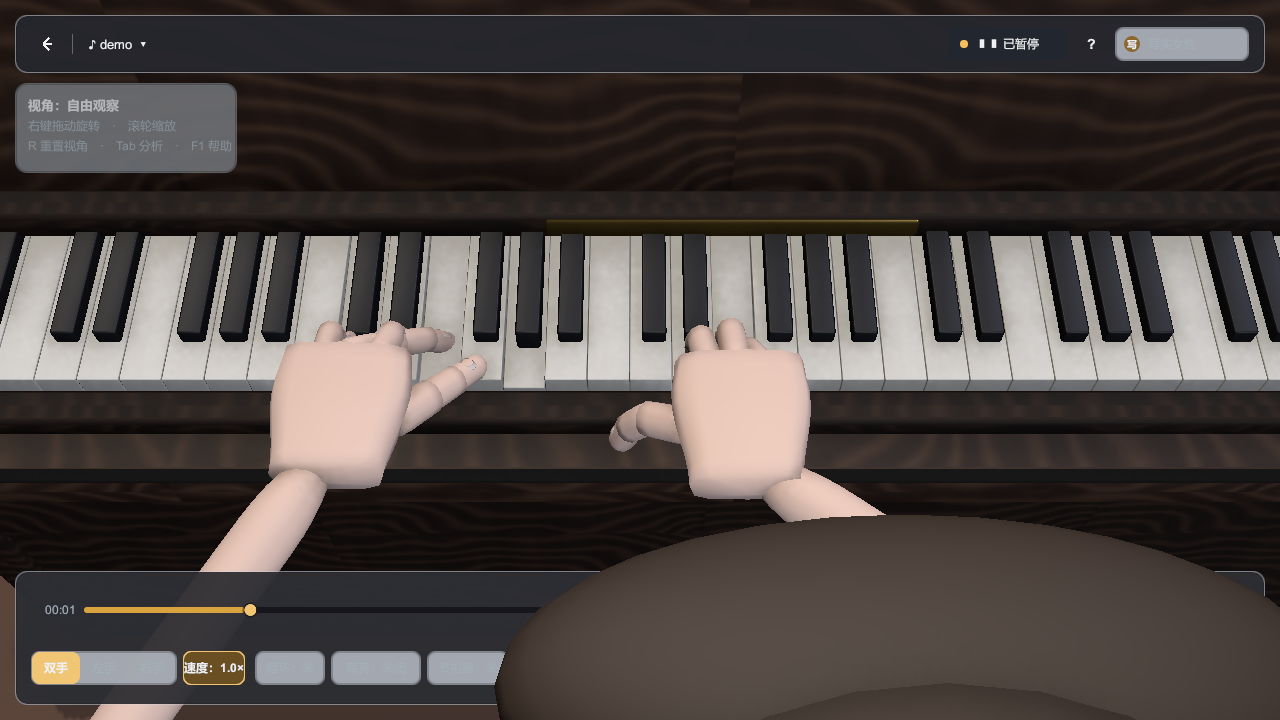
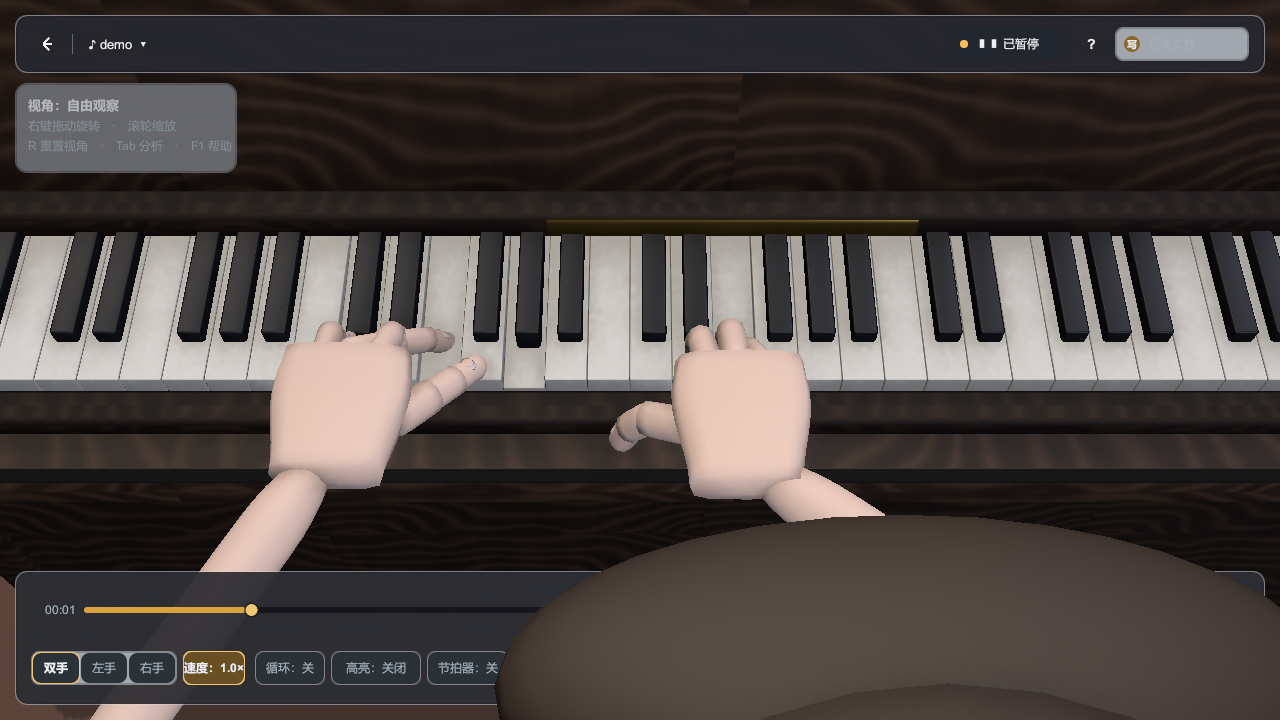
fix(ui): chip 与分段项改实心底色，不再是一排「空按钮」
关闭态原来是 Transparent 底 + 1px 描边，在深色场景里几乎看不见，
观感像一排灰方块；禁用态与未选中态也分不清。

- UITheme.ChipBackground：关闭态 Transparent -> Control
- UITheme.PaintSegment：未选中 Transparent -> Control
- UISegmentedControl.RefreshStyles：UIHoverFeedback 的 idle 色同步为 Control
- 重采 26 张视觉基线（V19/V21 可见底部控制条与角色库）

验证：EditMode 485/485、PlayMode 130 过 + 4 跳过 / 0 失败（昨晚两个计时类失败本轮自然通过）。

Changed region(s): [[0.1875, 0.8861, 0.4062, 0.9472], [0.0, 0.8861, 0.1562, 0.9472]]

diff --git a/Assets/Scripts/UI/UITheme.cs b/Assets/Scripts/UI/UITheme.cs
@@ -1128,9 +1128,16 @@ namespace PianoTeacher3D.UI
             btn.colors = colors;
         }
 
-        /// <summary>chip 底色：开启 <see cref="Selected"/>，关闭透明；禁用 <see cref="Disabled"/>。</summary>
+        /// <summary>
+        /// chip 底色：开启 <see cref="Selected"/>，关闭 <see cref="Control"/>，禁用 <see cref="Disabled"/>。
+        /// <para>
+        /// 关闭态曾经是<b>全透明</b>——在深色场景上几乎看不见，只剩一圈 1px 描边，
+        /// 实际观感是「一排灰方块的空白按钮」。改成实心底色后，关闭态与开启态
+        /// 靠「深灰底 / 金色底」区分，文字始终压在实色上，对比度稳定。
+        /// </para>
+        /// </summary>
         public static Color ChipBackground(bool active, bool enabled)
-            => !enabled ? Disabled : (active ? Selected : Transparent);
+            => !enabled ? Disabled : (active ? Selected : Control);
 
         /// <summary>
         /// 绘制 chip（带状态后缀的只读/可点小控件）：常态透明 + 1px <see cref="Divider"/> 边，
@@ -1158,7 +1165,7 @@ namespace PianoTeacher3D.UI
         }
 
         /// <summary>
-        /// 绘制分段项：未选中透明（悬停出 <see cref="ControlHover"/>），
+        /// 绘制分段项：未选中 <see cref="Control"/> 实心底（与 chip 一致，透明底在深色场景里只剩一圈细边、像空按钮），
         /// 选中 <see cref="Selected"/> 底 + 1px <see cref="BorderSelected"/> 边 + 粗体，
         /// 因此「当前值」同时靠底色、描边、字重三重表达，不只靠颜色。
         /// </summary>
@@ -1170,7 +1177,7 @@ namespace PianoTeacher3D.UI
             {
                 var sprite = GetRoundedSprite(radius);
                 if (sprite != null) { img.sprite = sprite; img.type = Image.Type.Sliced; }
-                img.color = !enabled ? Disabled : (selected ? Selected : Transparent);
+                img.color = !enabled ? Disabled : (selected ? Selected : Control);
                 SetOutline(img, selected, BorderSelected, 1f);
             }
             var label = GetLabel(btn);

diff --git a/Assets/Scripts/UI/UISegmentedControl.cs b/Assets/Scripts/UI/UISegmentedControl.cs
@@ -206,8 +206,10 @@ namespace PianoTeacher3D.UI
                     feedback.SetInteractable(enabled);
                     feedback.SetOutlineState(selected, UITheme.BorderSelected);
                     // 选中项悬停保持金色底（避免一悬停就失去「当前值」的视觉）
-                    feedback.SetColors(UITheme.Transparent,
-                        !enabled ? UITheme.Transparent : (selected ? UITheme.Selected : UITheme.ControlHover));
+                    // 未选中项给实心 Control 底（与 chip 一致）：透明底在深色场景里只剩一圈描边，
+                    // 观感上是「空白灰按钮」，分不清是禁用还是没选中。
+                    feedback.SetColors(UITheme.Control,
+                        !enabled ? UITheme.Disabled : (selected ? UITheme.Selected : UITheme.ControlHover));
                 }
             }
         }

diff --git a/Docs/screenshots/manifest.md b/Docs/screenshots/manifest.md
@@ -5,7 +5,7 @@
 > 对应文档：方案 **11.2 视觉回归**（10 个固定截图/场景用例）、**11.3/11.4 验收与自动化**、
 > **15 发布前检查清单**；审查 **3.2 视角可用性**、**6.1 画面基线组合 V01–V09**、**6.2 相机验收清单**。
 
-- 生成时间：2026-11-03 13:05:02
+- 生成时间：2026-11-03 13:41:09
 - 生成主机 Unity 版本：2022.3.22f1c1
 - 项目版本锁定值：2022.3.22f1c1（来源 ProjectSettings/ProjectVersion.txt）
 - 运行平台 / 图形设备：WindowsEditor / Direct3D11
@@ -25,30 +25,30 @@
 |---|---|---|---|---|---|---|---|---|---|---|
 | 01_full.png | 方案 11.2-2 | 写实女性（索引 0） | demo | 0.00 | 全景（Mode=Full, ModeLabel=全景）自由观察=False | 640×480（请求 1280×720） | 2022.3.22f1c1 | 2022.3.22f1c1 | 标准全景：键盘完整、低音端无遮挡、人物完整入画 | — |
 | 02_closeup.png | 方案 11.2-3 | 写实女性（索引 0） | demo | 0.00 | 手部特写（Mode=Closeup, ModeLabel=手部特写）自由观察=False | 640×480（请求 1280×720） | 2022.3.22f1c1 | 2022.3.22f1c1 | 手部特写（白键旋律）：掌心、指尖与相应琴键同时可见 | 高亮默认关闭，特写按活动手范围取景 |
-| 03_playing.png | 方案 11.2-2 | 写实女性（索引 0） | demo | 4.14 | 全景（Mode=Full, ModeLabel=全景）自由观察=False | 640×480（请求 1280×720） | 2022.3.22f1c1 | 2022.3.22f1c1 | 播放中全景：琴键动作与高亮同步、人物无穿模 | — |
-| 04_practice_left.png | 方案 11.2-6 | 写实女性（索引 0） | demo | 6.01 | 全景（Mode=Full, ModeLabel=全景）自由观察=False | 640×480（请求 1280×720） | 2022.3.22f1c1 | 2022.3.22f1c1 | 分手练习开启：相机聚焦活动手 | — |
+| 03_playing.png | 方案 11.2-2 | 写实女性（索引 0） | demo | 4.12 | 全景（Mode=Full, ModeLabel=全景）自由观察=False | 640×480（请求 1280×720） | 2022.3.22f1c1 | 2022.3.22f1c1 | 播放中全景：琴键动作与高亮同步、人物无穿模 | — |
+| 04_practice_left.png | 方案 11.2-6 | 写实女性（索引 0） | demo | 5.90 | 全景（Mode=Full, ModeLabel=全景）自由观察=False | 640×480（请求 1280×720） | 2022.3.22f1c1 | 2022.3.22f1c1 | 分手练习开启：相机聚焦活动手 | — |
 | 05_avatar_man.png | 方案 11.2-8 | 写实男性（索引 1） | demo | 7.50 | 全景（Mode=Full, ModeLabel=全景）自由观察=False | 640×480（请求 1280×720） | 2022.3.22f1c1 | 2022.3.22f1c1 | 不同人物切换后的同一机位：构图规律一致 | — |
 | 06_avatar_cartoon.png | 方案 11.2-8 | 卡通角色（索引 2） | demo | 7.50 | 全景（Mode=Full, ModeLabel=全景）自由观察=False | 640×480（请求 1280×720） | 2022.3.22f1c1 | 2022.3.22f1c1 | 不同人物切换后的同一机位：构图规律一致 | — |
-| V01_closeup_chord.png | 审查 6.1 V01 / 方案 11.2-4 | 写实女性（索引 0） | demo | 1.10 | 手部特写（Mode=Closeup, ModeLabel=手部特写）自由观察=False | 640×480（请求 1280×720） | 2022.3.22f1c1 | 2022.3.22f1c1 | 掌心、指尖、琴键可见；指法自然 | 曲内同时发声 4 音的中音区和弦（t=0.00s） |
-| V02_closeup_wide_leap.png | 审查 6.1 V02 / 3.2-1 | 写实女性（索引 0） | demo | 2.62 | 手部特写（Mode=Closeup, ModeLabel=手部特写）自由观察=False | 640×480（请求 1280×720） | 2022.3.22f1c1 | 2022.3.22f1c1 | 动态取景范围与阻尼：两手分开时画面不突然缩放 | 曲内 0.5s 窗口最大音域跨度 19 半音（pitch 48–67，t=1.50s）；内置示例曲音域有限，跨度不足属曲目内容限制 |
-| V03_full_arm_motion.png | 审查 6.1 V03 | 写实男性（索引 1） | demo | 6.60 | 全景（Mode=Full, ModeLabel=全景）自由观察=False | 640×480（请求 1280×720） | 2022.3.22f1c1 | 2022.3.22f1c1 | 坐姿、肩臂、完整键盘 | 曲内最大音程跳进 19 半音（t=3.50s），手臂运动在该片段最明显 |
-| V04_full_cartoon.png | 审查 6.1 V04 | 卡通角色（索引 2） | demo | 6.09 | 全景（Mode=Full, ModeLabel=全景）自由观察=False | 640×480（请求 1280×720） | 2022.3.22f1c1 | 2022.3.22f1c1 | 风格一致与取景适配 | 中等速度片段（曲目 40% 处） |
-| V05_left_hand_only.png | 审查 6.1 V05 / 3.2-3 | 写实女性（索引 0） | demo | 1.09 | 手部特写（Mode=Closeup, ModeLabel=手部特写）自由观察=False | 640×480（请求 1280×720） | 2022.3.22f1c1 | 2022.3.22f1c1 | 相机聚焦活动手 | 左手独立音型（t=0.00s） |
-| V06_right_hand_only.png | 审查 6.1 V06 / 3.2-4 | 写实女性（索引 0） | demo | 1.11 | 手部特写（Mode=Closeup, ModeLabel=手部特写）自由观察=False | 640×480（请求 1280×720） | 2022.3.22f1c1 | 2022.3.22f1c1 | 相机聚焦活动手 | 右手独立音型（t=0.00s） |
-| V07_free_orbit_paused.png | 审查 6.1 V07 | 写实女性（索引 0） | demo | 1.11 | 自由观察（Mode=Free, ModeLabel=自由观察）自由观察=True | 640×480（请求 1280×720） | 2022.3.22f1c1 | 2022.3.22f1c1 | 旋转/缩放、UI 鼠标操作边界 | 测试环境无法注入真实鼠标右键拖动：本图记录「进入自由观察 → 暂停」后的初始构图（进入时不跳变） |
-| V08_switch_settled.png | 审查 6.1 V08 | 写实女性（索引 0） | demo | 7.50 | 全景（Mode=Full, ModeLabel=全景）自由观察=False | 640×480（请求 1280×720） | 2022.3.22f1c1 | 2022.3.22f1c1 | 最终构图稳定、时间轴连续 | 播放中连续切换视角 5 次后等待 3s：IsTransitioning=True（期望 False）、时间从 4.65s 推进到 7.50s（时间轴连续） |
-| V09_closeup_loop.png | 审查 6.1 V09 | 写实女性（索引 0） | demo | 2.66 | 手部特写（Mode=Closeup, ModeLabel=手部特写）自由观察=False | 640×480（请求 1280×720） | 2022.3.22f1c1 | 2022.3.22f1c1 | 循环跳转后手位和相机不追旧目标 | A-B 循环 [2.63s, 3.23s]，IsLooping=True；等待跨越 B 点后再等 1.6s，此刻时间 2.65s |
+| V01_closeup_chord.png | 审查 6.1 V01 / 方案 11.2-4 | 写实女性（索引 0） | demo | 1.09 | 手部特写（Mode=Closeup, ModeLabel=手部特写）自由观察=False | 640×480（请求 1280×720） | 2022.3.22f1c1 | 2022.3.22f1c1 | 掌心、指尖、琴键可见；指法自然 | 曲内同时发声 4 音的中音区和弦（t=0.00s） |
+| V02_closeup_wide_leap.png | 审查 6.1 V02 / 3.2-1 | 写实女性（索引 0） | demo | 2.63 | 手部特写（Mode=Closeup, ModeLabel=手部特写）自由观察=False | 640×480（请求 1280×720） | 2022.3.22f1c1 | 2022.3.22f1c1 | 动态取景范围与阻尼：两手分开时画面不突然缩放 | 曲内 0.5s 窗口最大音域跨度 19 半音（pitch 48–67，t=1.50s）；内置示例曲音域有限，跨度不足属曲目内容限制 |
+| V03_full_arm_motion.png | 审查 6.1 V03 | 写实男性（索引 1） | demo | 6.63 | 全景（Mode=Full, ModeLabel=全景）自由观察=False | 640×480（请求 1280×720） | 2022.3.22f1c1 | 2022.3.22f1c1 | 坐姿、肩臂、完整键盘 | 曲内最大音程跳进 19 半音（t=3.50s），手臂运动在该片段最明显 |
+| V04_full_cartoon.png | 审查 6.1 V04 | 卡通角色（索引 2） | demo | 6.10 | 全景（Mode=Full, ModeLabel=全景）自由观察=False | 640×480（请求 1280×720） | 2022.3.22f1c1 | 2022.3.22f1c1 | 风格一致与取景适配 | 中等速度片段（曲目 40% 处） |
+| V05_left_hand_only.png | 审查 6.1 V05 / 3.2-3 | 写实女性（索引 0） | demo | 1.10 | 手部特写（Mode=Closeup, ModeLabel=手部特写）自由观察=False | 640×480（请求 1280×720） | 2022.3.22f1c1 | 2022.3.22f1c1 | 相机聚焦活动手 | 左手独立音型（t=0.00s） |
+| V06_right_hand_only.png | 审查 6.1 V06 / 3.2-4 | 写实女性（索引 0） | demo | 1.13 | 手部特写（Mode=Closeup, ModeLabel=手部特写）自由观察=False | 640×480（请求 1280×720） | 2022.3.22f1c1 | 2022.3.22f1c1 | 相机聚焦活动手 | 右手独立音型（t=0.00s） |
+| V07_free_orbit_paused.png | 审查 6.1 V07 | 写实女性（索引 0） | demo | 1.13 | 自由观察（Mode=Free, ModeLabel=自由观察）自由观察=True | 640×480（请求 1280×720） | 2022.3.22f1c1 | 2022.3.22f1c1 | 旋转/缩放、UI 鼠标操作边界 | 测试环境无法注入真实鼠标右键拖动：本图记录「进入自由观察 → 暂停」后的初始构图（进入时不跳变） |
+| V08_switch_settled.png | 审查 6.1 V08 | 写实女性（索引 0） | demo | 7.50 | 全景（Mode=Full, ModeLabel=全景）自由观察=False | 640×480（请求 1280×720） | 2022.3.22f1c1 | 2022.3.22f1c1 | 最终构图稳定、时间轴连续 | 播放中连续切换视角 5 次后等待 3s：IsTransitioning=True（期望 False）、时间从 4.67s 推进到 7.50s（时间轴连续） |
+| V09_closeup_loop.png | 审查 6.1 V09 | 写实女性（索引 0） | demo | 2.63 | 手部特写（Mode=Closeup, ModeLabel=手部特写）自由观察=False | 640×480（请求 1280×720） | 2022.3.22f1c1 | 2022.3.22f1c1 | 循环跳转后手位和相机不追旧目标 | A-B 循环 [2.63s, 3.23s]，IsLooping=True；等待跨越 B 点后再等 1.6s，此刻时间 3.21s |
 | V10_mainmenu.png | 方案 11.2-1 | 不适用（主菜单场景） | 不适用（未进入课程） | — | 不适用（主菜单场景无 CameraModeController） | 640×480（请求 1280×720） | 2022.3.22f1c1 | 2022.3.22f1c1 | 主菜单空状态可操作：导入入口可见、无曲目时不显示可播放按钮 | 曲库有 1 首示例曲 → 主菜单显示曲目卡片；空曲库态需清空 Assets/StreamingAssets/Songs 后重跑才能复现（本次未生成空状态图） |
-| V11_highlight_on.png | 方案 11.2-5 | 写实女性（索引 0） | demo | 0.47 | 全景（Mode=Full, ModeLabel=全景）自由观察=False | 640×480（请求 1280×720） | 2022.3.22f1c1 | 2022.3.22f1c1 | 颜色语义正确（暖金=预提示、左蓝/右橙=发声），且高亮不遮挡手部 | 高亮模式 Both（暖金预提示 + 蓝/橙发声）；为同时呈现两种提示，临时把预提示提前量设为 1.2s（原 0.6s，截图后还原） |
-| V12_analysis_expanded.png | 方案 11.2-7 | 写实女性（索引 0） | demo | 7.07 | 全景（Mode=Full, ModeLabel=全景）自由观察=False | 640×480（请求 1280×720） | 2022.3.22f1c1 | 2022.3.22f1c1 | 分析面板展开；动作质量默认折叠在「开发诊断」区 | 曲目分析面板展开=True、开发诊断展开=True（通过按钮 onClick 触发，未注入鼠标事件）；展开诊断后主画面仍未被过度覆盖（本次仅截图，遮挡断言见 CameraVisibilityTests 3.2-2） |
-| V13_teaching_mode.png | 新增：教学模式 / 展示模式 | 写实女性（索引 0） | demo | 1.06 | 手部特写（Mode=Closeup, ModeLabel=手部特写）自由观察=False | 640×480（请求 1280×720） | 2022.3.22f1c1 | 2022.3.22f1c1 | 教学模式：手部动画隐藏，只有被按下的琴键高亮（左手冷蓝 · 右手暖橙） | 显示模式=教学，手部可见=False，当前按下 4 个琴键、高亮 4 个琴键 |
-| V14_showcase_mode.png | 新增：教学模式 / 展示模式 | 写实女性（索引 0） | demo | 1.05 | 手部特写（Mode=Closeup, ModeLabel=手部特写）自由观察=False | 640×480（请求 1280×720） | 2022.3.22f1c1 | 2022.3.22f1c1 | 展示模式：完整手部动画（与 V13 同机位、同曲目时刻，便于逐帧对照） | 显示模式=展示，手部可见=True，当前按下 4 个琴键 |
+| V11_highlight_on.png | 方案 11.2-5 | 写实女性（索引 0） | demo | 0.46 | 全景（Mode=Full, ModeLabel=全景）自由观察=False | 640×480（请求 1280×720） | 2022.3.22f1c1 | 2022.3.22f1c1 | 颜色语义正确（暖金=预提示、左蓝/右橙=发声），且高亮不遮挡手部 | 高亮模式 Both（暖金预提示 + 蓝/橙发声）；为同时呈现两种提示，临时把预提示提前量设为 1.2s（原 0.6s，截图后还原） |
+| V12_analysis_expanded.png | 方案 11.2-7 | 写实女性（索引 0） | demo | 7.12 | 全景（Mode=Full, ModeLabel=全景）自由观察=False | 640×480（请求 1280×720） | 2022.3.22f1c1 | 2022.3.22f1c1 | 分析面板展开；动作质量默认折叠在「开发诊断」区 | 曲目分析面板展开=True、开发诊断展开=True（通过按钮 onClick 触发，未注入鼠标事件）；展开诊断后主画面仍未被过度覆盖（本次仅截图，遮挡断言见 CameraVisibilityTests 3.2-2） |
+| V13_teaching_mode.png | 新增：教学模式 / 展示模式 | 写实女性（索引 0） | demo | 1.05 | 手部特写（Mode=Closeup, ModeLabel=手部特写）自由观察=False | 640×480（请求 1280×720） | 2022.3.22f1c1 | 2022.3.22f1c1 | 教学模式：手部动画隐藏，只有被按下的琴键高亮（左手冷蓝 · 右手暖橙） | 显示模式=教学，手部可见=False，当前按下 4 个琴键、高亮 4 个琴键 |
+| V14_showcase_mode.png | 新增：教学模式 / 展示模式 | 写实女性（索引 0） | demo | 1.06 | 手部特写（Mode=Closeup, ModeLabel=手部特写）自由观察=False | 640×480（请求 1280×720） | 2022.3.22f1c1 | 2022.3.22f1c1 | 展示模式：完整手部动画（与 V13 同机位、同曲目时刻，便于逐帧对照） | 显示模式=展示，手部可见=True，当前按下 4 个琴键 |
 | V15_rocketbox_character.png | 新增：写实角色（Rocketbox） | 写实女性（索引 0） | demo | 0.00 | 全景（Mode=Full, ModeLabel=全景）自由观察=False | 640×480（请求 1280×720） | 2022.3.22f1c1 | 2022.3.22f1c1 | 写实女性全景：皮肤与头发贴图完整、无白模、无碎片、手指自然弯曲 | 激活成功=True，角色=rocketbox.female01 |
-| V16_closeup_playing.png | 写实化三期 / 手部动态 | 写实女性（索引 0） | demo | 0.38 | 手部特写（Mode=Closeup, ModeLabel=手部特写）自由观察=False | 640×480（请求 1280×720） | 2022.3.22f1c1 | 2022.3.22f1c1 | 演奏中不暂停：指节弯曲与指尖接触可见（非冻结手型） | 曲内同时发声 4 音的中音区和弦（t=0.00s） |
+| V16_closeup_playing.png | 写实化三期 / 手部动态 | 写实女性（索引 0） | demo | 0.40 | 手部特写（Mode=Closeup, ModeLabel=手部特写）自由观察=False | 640×480（请求 1280×720） | 2022.3.22f1c1 | 2022.3.22f1c1 | 演奏中不暂停：指节弯曲与指尖接触可见（非冻结手型） | 曲内同时发声 4 音的中音区和弦（t=0.00s） |
 | V17_rocketbox_closeup_idle.png | v4 阶段 0 / 真实默认体验 | 写实女性（索引 0） | demo | 0.00 | 手部特写（Mode=Closeup, ModeLabel=手部特写）自由观察=False | 640×480（请求 1280×720） | 2022.3.22f1c1 | 2022.3.22f1c1 | 真人角色手部特写（空闲）：手掌、五指、琴键同时可见；头/躯干不遮挡键面 | Rocketbox 默认真人角色，停止态；用于判断手型与遮挡 |
 | V18_rocketbox_closeup_playing.png | v4 阶段 0 / 真实默认体验 | 写实女性（索引 0） | demo | 0.37 | 手部特写（Mode=Closeup, ModeLabel=手部特写）自由观察=False | 640×480（请求 1280×720） | 2022.3.22f1c1 | 2022.3.22f1c1 | 真人角色手部特写（演奏中，不暂停）：指节弯曲与指尖接触可见 | t=0.00s，播放中抓帧 |
 | V19_rocketbox_full.png | v4 阶段 0 / 真实默认体验 | 写实女性（索引 0） | demo | 0.00 | 全景（Mode=Full, ModeLabel=全景）自由观察=False | 640×480（请求 1280×720） | 2022.3.22f1c1 | 2022.3.22f1c1 | 真人角色全景：坐姿、琴凳、琴体、键面完整；无穿模与悬空 | Rocketbox 默认真人角色，停止态 |
-| V20_rocketbox_pedal.png | v4 阶段 1 / 延音踏板 | 写实女性（索引 0） | demo | 1.51 | 全景（Mode=Full, ModeLabel=全景）自由观察=False | 640×480（请求 1280×720） | 2022.3.22f1c1 | 2022.3.22f1c1 | 真人角色演奏中：延音踏板踩下时右脚脚尖抬起、脚跟着地 | 与 V19 同机位，播放中命中踏板区间 |
+| V20_rocketbox_pedal.png | v4 阶段 1 / 延音踏板 | 写实女性（索引 0） | demo | 1.52 | 全景（Mode=Full, ModeLabel=全景）自由观察=False | 640×480（请求 1280×720） | 2022.3.22f1c1 | 2022.3.22f1c1 | 真人角色演奏中：延音踏板踩下时右脚脚尖抬起、脚跟着地 | 与 V19 同机位，播放中命中踏板区间 |
 | V21_avatar_select.png | v4 阶段 1 / 角色库 | 写实女性（索引 0） | demo | 0.00 | 全景（Mode=Full, ModeLabel=全景）自由观察=False | 640×480（请求 1280×720） | 2022.3.22f1c1 | 2022.3.22f1c1 | 三张竖版人像卡：写实女性 / 写实男性 / 儿童，缩略图取自模型头部贴图 | 打开角色库面板后截图（面板默认收起） |
 
 ## 如何新增 / 更新基线

diff --git a/Docs/perf/sampling.md b/Docs/perf/sampling.md
@@ -107,7 +107,7 @@
 <!-- SECTION:resource-load:BEGIN -->
 ### 资源加载采样（方案 11.4「资源加载耗时和失败率采样」）
 
-- 时间：2026-11-03 00:30:31
+- 时间：2026-11-03 13:39:32
 - Unity：2022.3.22f1c1
 - 图形设备：Direct3D11（NVIDIA GeForce RTX 4060 Laptop GPU）
 - 分辨率：640×480 @ 96 dpi
@@ -115,11 +115,11 @@
 - 平台 / 系统：WindowsEditor / Windows 11  (10.0.26200) 64bit
 
 - 曲目目录：`StreamingAssets/Songs`；曲目数：1
-- 最慢单曲：32.9 ms；失败数：0
+- 最慢单曲：15.1 ms；失败数：0
 
 | 曲目 | 加载耗时 (ms) | 结果 |
 |---|---|---|
-| demo.mid | 32.9 | 成功 |
+| demo.mid | 15.1 | 成功 |
 
 **口径说明**：耗时用 `System.Diagnostics.Stopwatch` 包裹 `LessonSessionController.LoadSong`，包含校验 + 解析 + 一次性提交；示例曲为毫秒级，5 秒上限只用于捕获卡死，不代表目标设备上的加载性能。
 <!-- SECTION:resource-load:END -->

diff --git a/Docs/perf/environments.md b/Docs/perf/environments.md
@@ -31,7 +31,7 @@
 <!-- SECTION:local-check:BEGIN -->
 ### 本机自检（由 Environment_Matrix_Checklist 自动写入）
 
-- 时间：2026-11-03 00:28:18
+- 时间：2026-11-03 13:37:49
 - Unity：2022.3.22f1c1
 - 图形设备：Direct3D11（NVIDIA GeForce RTX 4060 Laptop GPU）
 - 分辨率：640×480 @ 96 dpi
